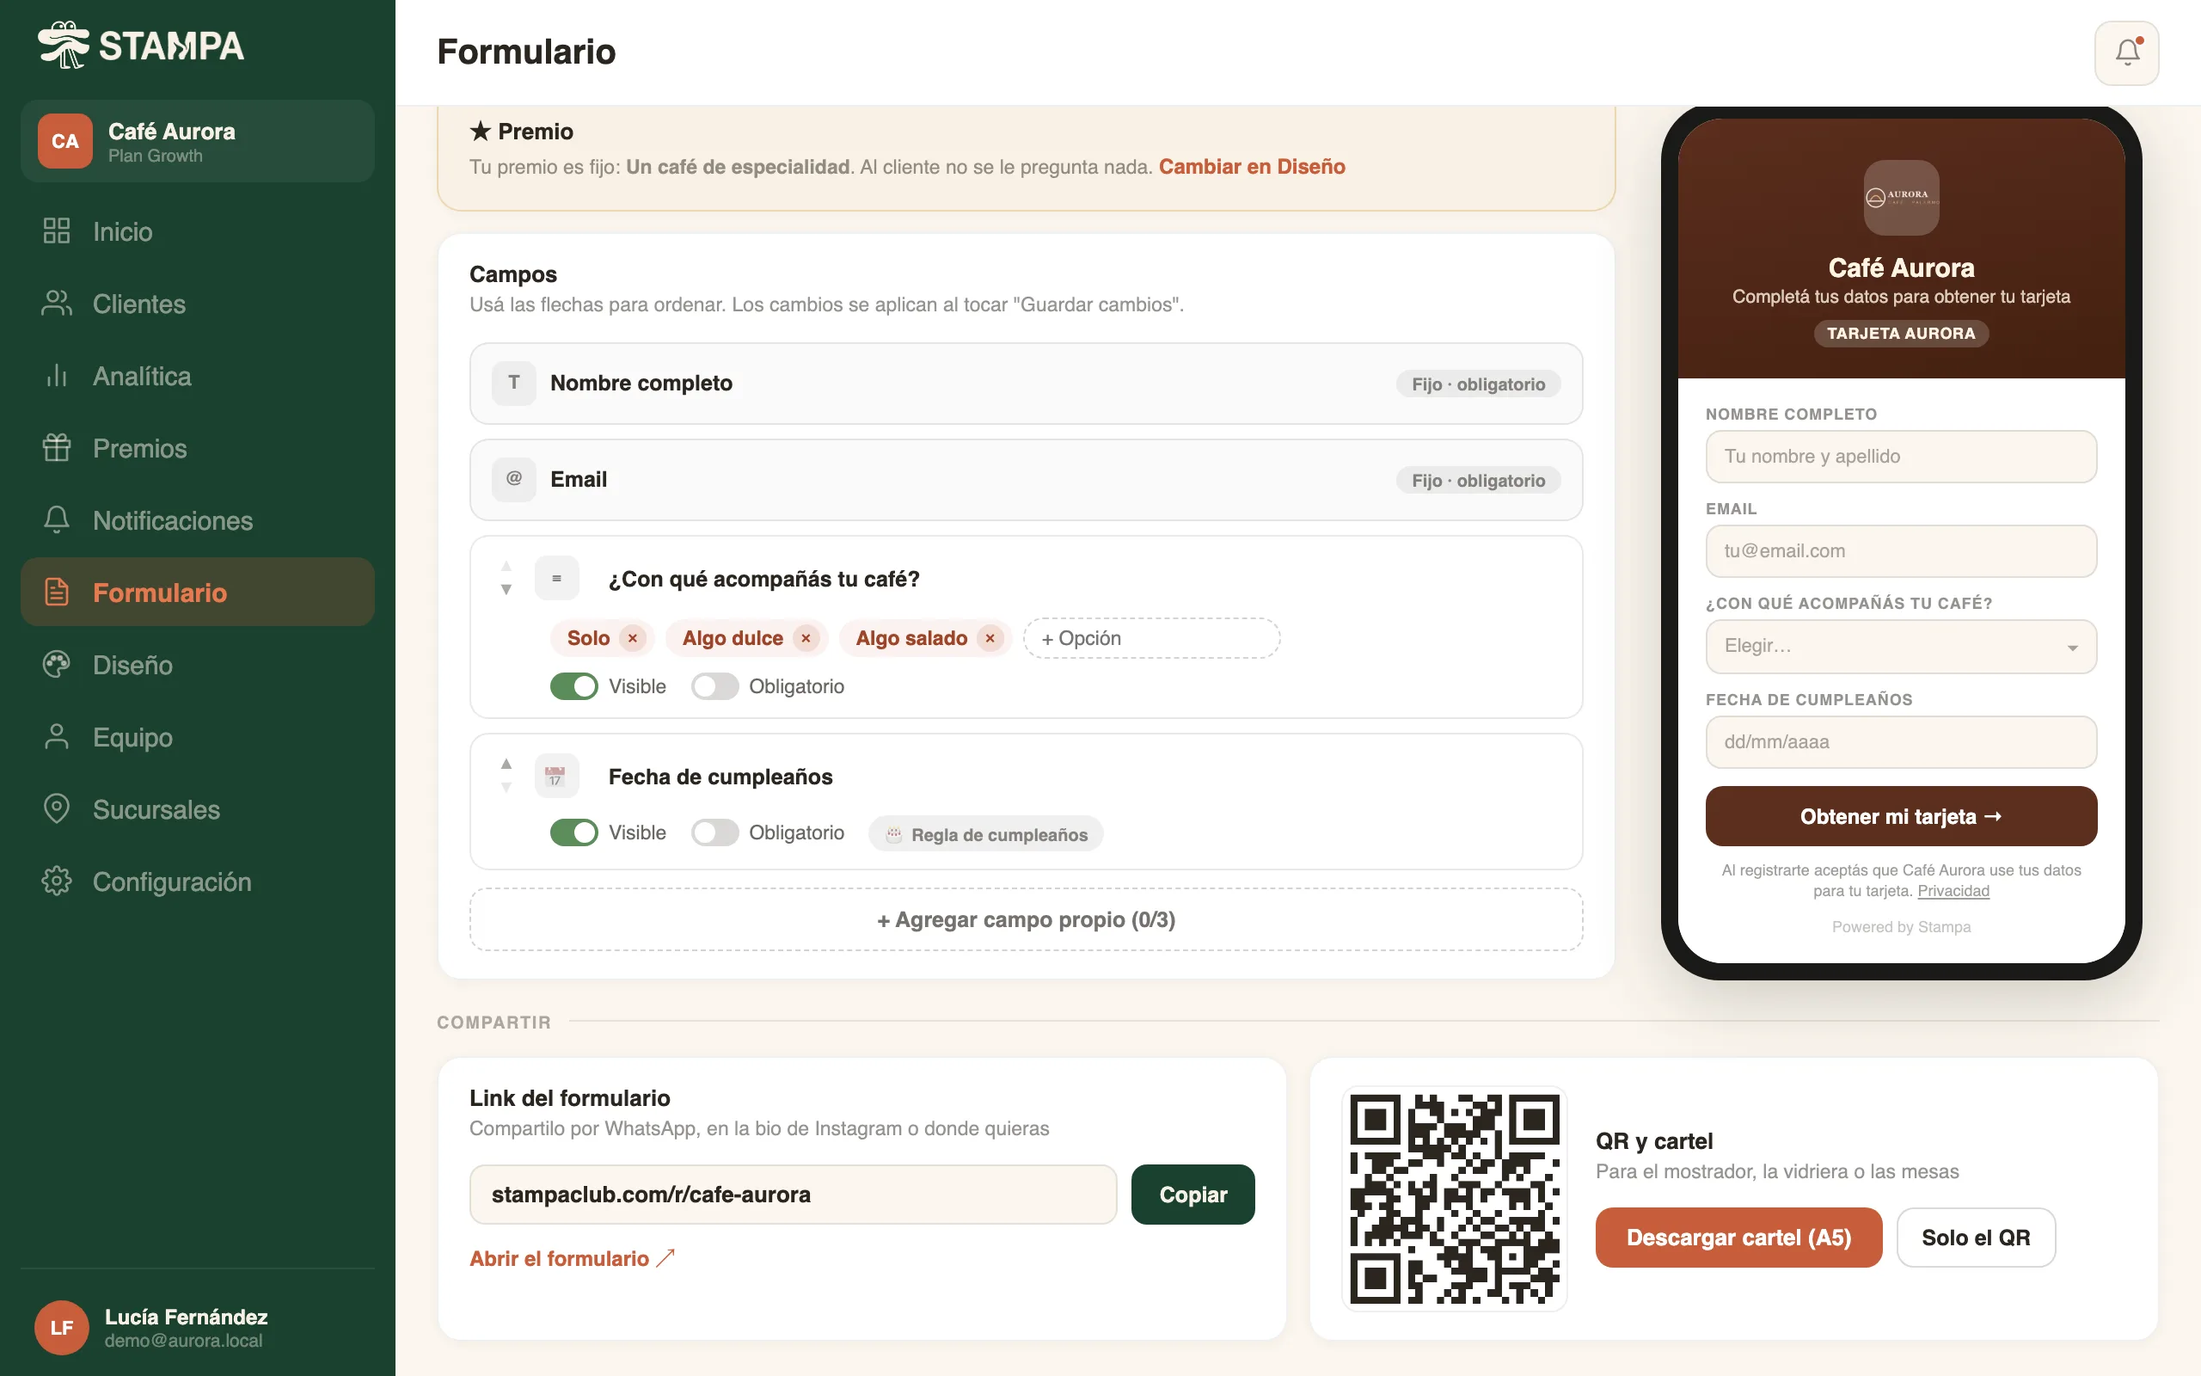
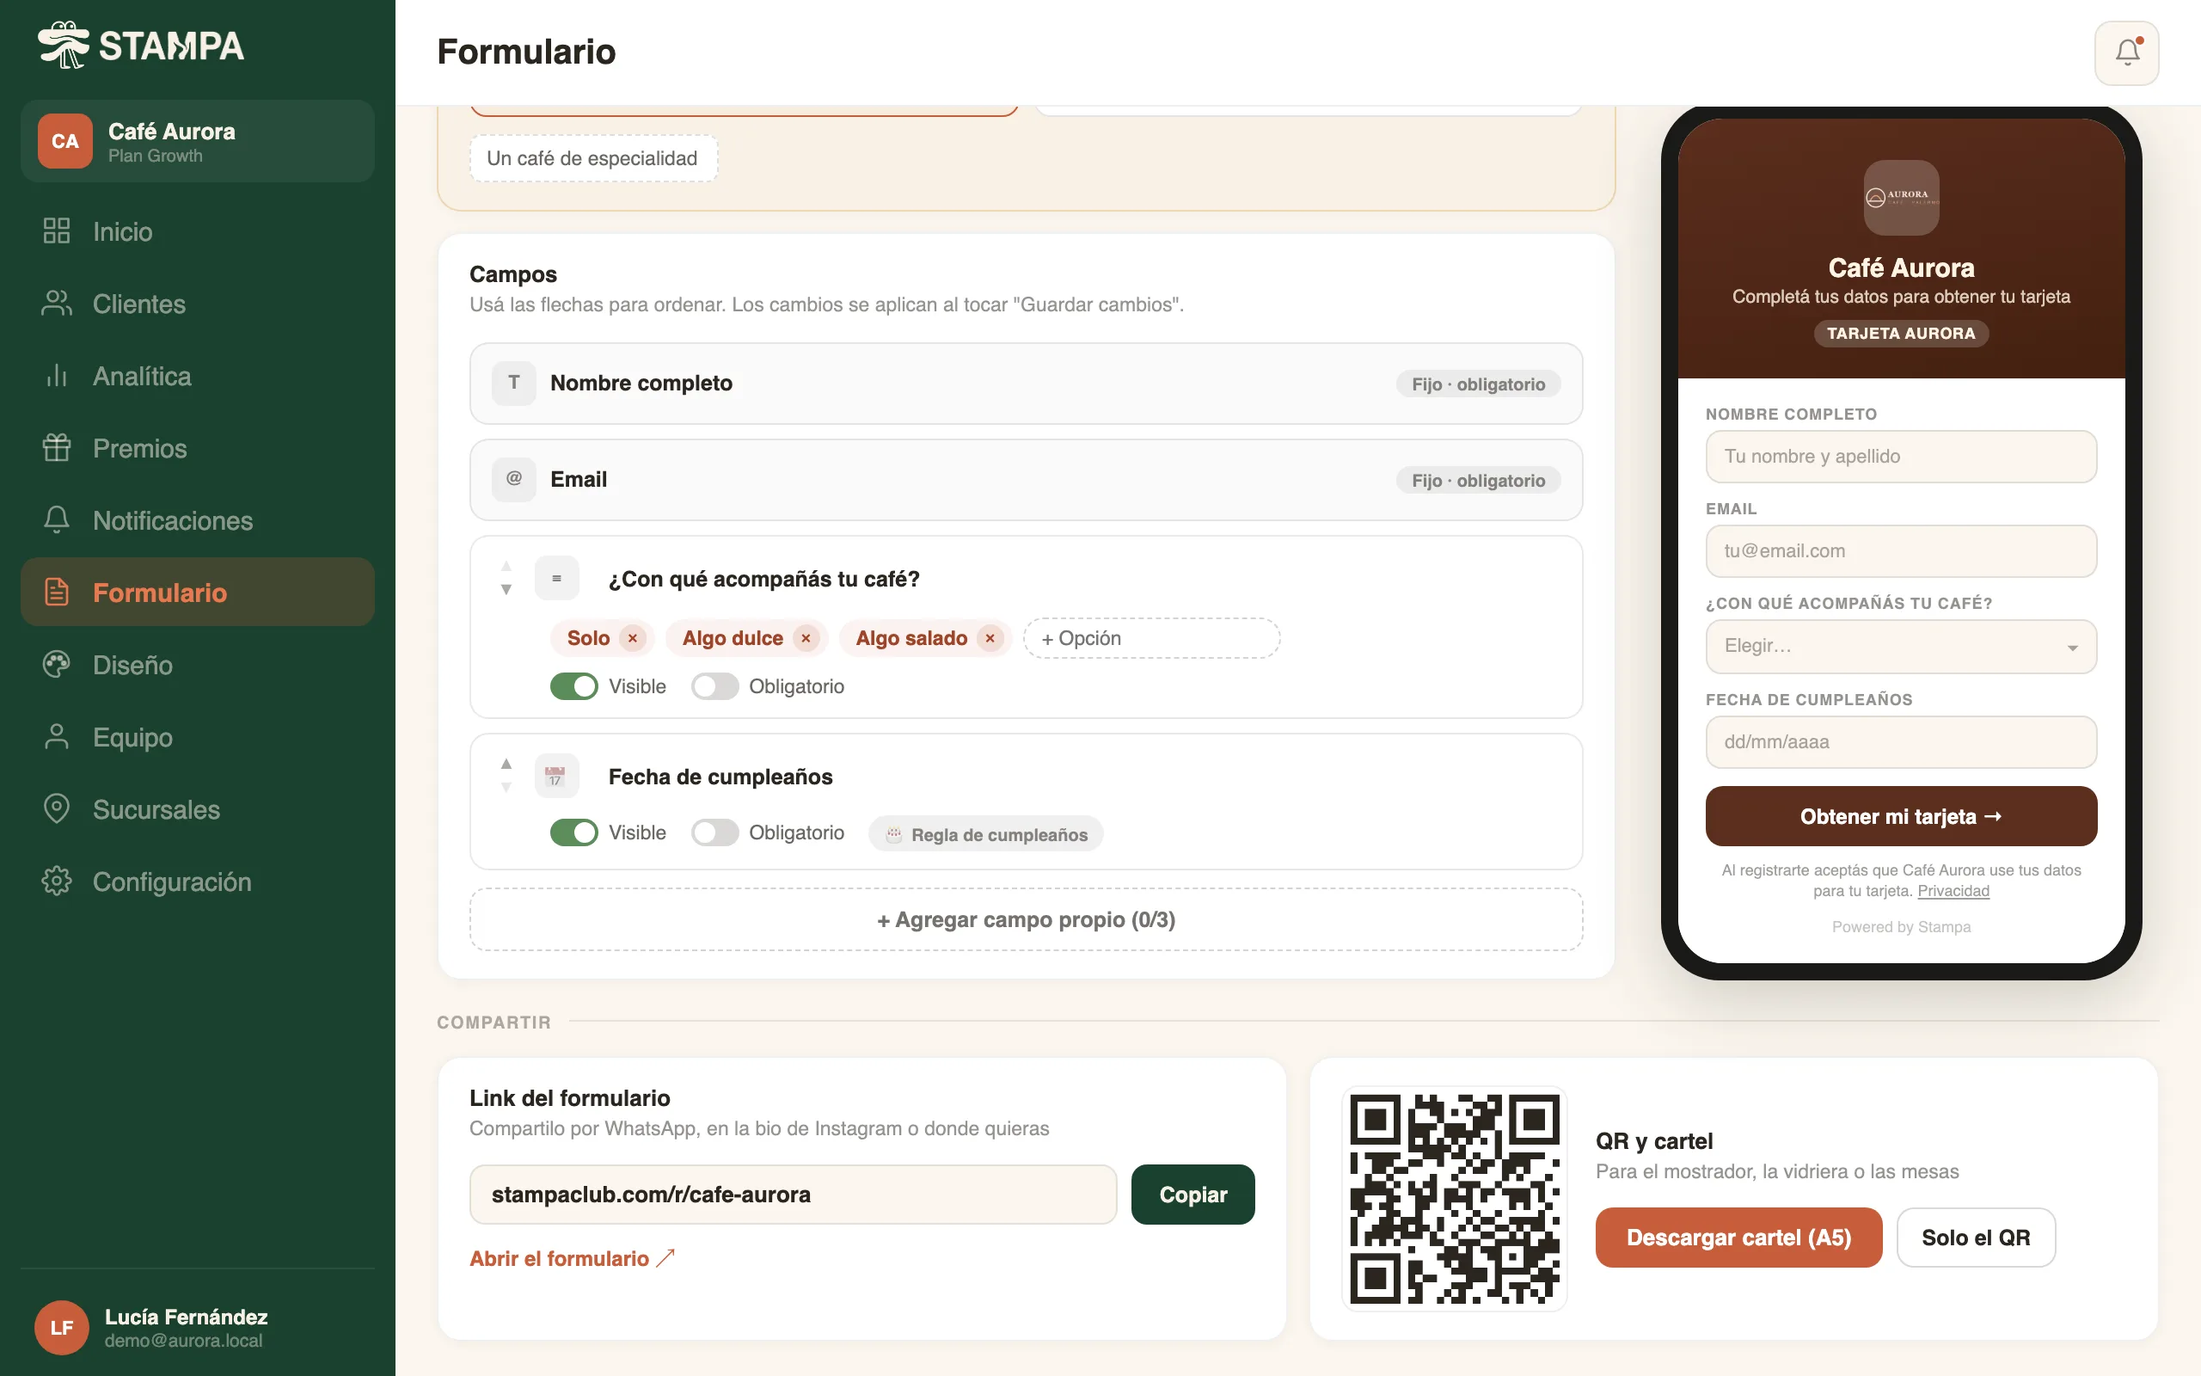
feat(premio): el premio se define solo en Formulario; Diseño muestra un resumen
Diseño ya no edita ni manda el premio (evita pisar lo guardado en
Formulario). Ayuda y capturas actualizadas.

Changed region(s): [[0.4688, 0.0625, 0.7188, 0.125], [0.1875, 0.0938, 0.4375, 0.1562]]

diff --git a/components/dashboard/DesignTab.tsx b/components/dashboard/DesignTab.tsx
@@ -394,7 +394,7 @@ function CardEditor({ card: init, businessId, businessName, onSaved, onBack, onG
   card: CardDesign; businessId?: string | null; businessName?: string | null; onSaved?: () => void; onBack: () => void
   onGoTo?: (tab: 'form' | 'rewards') => void
 }) {
-  const { can, plan, limit } = usePlan()
+  const { can, plan } = usePlan()
   const t = useLang()
   const [card, setCard] = useState<CardDesign>(init)
   // Campos y niveles reales de ESTA tarjeta (antes salían de datos de ejemplo).
@@ -442,24 +442,9 @@ function CardEditor({ card: init, businessId, businessName, onSaved, onBack, onG
   }
 
   const rewardSource = fields.find((f: FormField) => f.isRewardSource)
-  // Opciones de "Lo elige el cliente": se editan acá y se guardan en la
-  // pregunta de premio del formulario.
-  const maxRewardOpts = limit('maxRewardOptions')
-  const [rewardOpts, setRewardOpts] = useState<string[]>([])
-  const [rewardOptsBase, setRewardOptsBase] = useState('[]')
-  const [newOpt, setNewOpt] = useState('')
-  useEffect(() => {
-    const o = rewardSource?.options || []
-    setRewardOpts(o); setRewardOptsBase(JSON.stringify(o))
-  }, [rewardSource?.id]) // eslint-disable-line react-hooks/exhaustive-deps
-  const cleanOpts = rewardOpts.map(o => o.trim()).filter(Boolean)
-  const optsChanged = JSON.stringify(cleanOpts) !== rewardOptsBase
-  function addOpt() {
-    const v = newOpt.trim().slice(0, 40)
-    if (!v || rewardOpts.length >= maxRewardOpts || rewardOpts.some(o => o.toLowerCase() === v.toLowerCase())) return
-    setRewardOpts([...rewardOpts, v]); setNewOpt('')
-  }
-  const rewardSourceLabel = rewardSource ? 'Lo elige cada cliente' : 'Sin configurar'
+  // El premio (fijo o el que elige el cliente) se define en Formulario.
+  // Acá solo se muestra en la vista previa y como resumen.
+  const rewardChoices = (rewardSource?.options || []).filter(Boolean)
 
   // Cambios sin guardar: se compara con lo que había al abrir.
   const snapshot = (c: CardDesign, l: LogoState, fm: string, fs: string, img: string | null, ppv: number) =>
@@ -468,7 +453,7 @@ function CardEditor({ card: init, businessId, businessName, onSaved, onBack, onG
   const [savedStamps, setSavedStamps] = useState(init.stampsRequired)
 
   function setLogo(key: keyof LogoState) { return (url: string | null) => setLogos({ ...logos, [key]: url }) }
-  const dirty = snapshot(card, logos, flipMessage, flipSubMessage, prizeImage, pointsPerVisit) !== baseline || (card.type === 'stamp' && card.rewardMode === 'dynamic' && optsChanged)
+  const dirty = snapshot(card, logos, flipMessage, flipSubMessage, prizeImage, pointsPerVisit) !== baseline
   const textColorBad = !!card.textColor && !isHex(card.textColor)
   const labelColorBad = !!card.labelColor && !isHex(card.labelColor)
   const lowContrast = card.type !== 'membership' && isHex(card.textColor || '#FFFFFF') && isHex(card.color) && contrastRatio(card.textColor || '#FFFFFF', card.color) < 3
@@ -480,8 +465,6 @@ function CardEditor({ card: init, businessId, businessName, onSaved, onBack, onG
     }
     setSaveError(''); setSaveNotice('')
     if (!card.name.trim()) { setSaveError('La tarjeta necesita un nombre.'); return }
-    if (card.type === 'stamp' && card.rewardMode !== 'dynamic' && !(card.rewardField || '').trim()) { setSaveError('Escribí cuál es el premio (ej: Café gratis).'); return }
-    if (card.type === 'stamp' && card.rewardMode === 'dynamic' && (cleanOpts.length < 2 || cleanOpts.length > maxRewardOpts)) { setSaveError(`Cargá entre 2 y ${maxRewardOpts} opciones de premio para que el cliente elija.`); return }
     if (textColorBad || labelColorBad) { setSaveError('Revisá los colores de texto: tienen que ser un código como #FFFFFF.'); return }
     // Bajar los sellos completa la tarjeta de quienes ya los tienen: avisar antes.
     if (!skipImpactCheck && card.type === 'stamp' && card.stampsRequired < savedStamps) {
@@ -502,9 +485,6 @@ function CardEditor({ card: init, businessId, businessName, onSaved, onBack, onG
         isActive: card.isActive,
         stampsRequired: card.stampsRequired,
         pointsPerVisit,
-        ...(card.type === 'stamp' ? { rewardMode: card.rewardMode === 'dynamic' ? 'dynamic' : 'fixed' } : {}),
-        ...(card.type === 'stamp' && card.rewardMode === 'dynamic' && (optsChanged || !rewardSource) ? { rewardOptions: cleanOpts } : {}),
-        rewardFixedValue: card.rewardField || null,
         flipMessage,
         flipSubMessage,
         // null = se quitó (antes mandaba undefined y "Quitar" nunca se guardaba)
@@ -518,10 +498,6 @@ function CardEditor({ card: init, businessId, businessName, onSaved, onBack, onG
       setSaved(true)
       setBaseline(snapshot(card, logos, flipMessage, flipSubMessage, prizeImage, pointsPerVisit))
       setSavedStamps(card.stampsRequired)
-      if (card.type === 'stamp' && card.rewardMode === 'dynamic') {
-        setRewardOpts(cleanOpts); setRewardOptsBase(JSON.stringify(cleanOpts))
-        if (!rewardSource) apiGetFields(businessId, card.id).then(list => setFields(list.map((f: any) => ({ id: f._id, label: f.label, type: f.fieldType, isLocked: f.isLocked, isActive: f.isActive, isRewardSource: f.isRewardSource, order: f.order, options: f.options || [] })))).catch(() => {})
-      }
       setSaveNotice(res?.passUpdates ? `Guardado. Se actualizó la tarjeta en ${res.passUpdates} celular${res.passUpdates === 1 ? '' : 'es'}.` : 'Guardado.')
       onSaved?.()
       setTimeout(() => setSaved(false), 2000)
@@ -538,7 +514,7 @@ function CardEditor({ card: init, businessId, businessName, onSaved, onBack, onG
   // espera para no pedirlas en cada tecla.
   const [walletPreview, setWalletPreview] = useState<WalletPreview | null>(null)
   const [walletPreviewError, setWalletPreviewError] = useState(false)
-  const previewReward = card.rewardMode === 'dynamic' ? (rewardOpts.find(o => o.trim()) || 'Lo elige el cliente') : (card.rewardField || 'Premio')
+  const previewReward = card.rewardMode === 'dynamic' ? (rewardChoices[0] || 'Lo elige el cliente') : (card.rewardField || 'Premio')
   const previewDesign = JSON.stringify({
     name: card.name, color: card.color, secondColor: card.secondColor, textColor: card.textColor,
     stampsRequired: card.stampsRequired, pointsPerVisit, logoUrl: logos.businessLogo, earnedIcon: logos.earnedIcon, emptyIcon: logos.emptyIcon,
@@ -712,48 +688,15 @@ function CardEditor({ card: init, businessId, businessName, onSaved, onBack, onG
           <div className="dt-panel-section-title" style={{ marginTop: 20 }}>Campos del formulario</div>
           <div className="dt-reward-goto-forms">Se editan en <button className="dt-inline-link" onClick={() => onGoTo?.('form')}>Formulario</button>. <InfoTooltip text="El formulario de registro usa el color y el logo de esta tarjeta." /></div>
 
-          {/* STAMP: prize mode */}
+          {/* STAMP: el premio se define en Formulario (un solo lugar). */}
           {card.type === 'stamp' && (
             <>
-              <div className="dt-panel-section-title" style={{ marginTop: 20 }}>¿Cómo se define el premio?</div>
-              <div className="dt-reward-mode-box">
-                <div className={`dt-reward-opt${card.rewardMode === 'dynamic' ? ' dt-reward-opt--on' : ''}`} onClick={() => setCard({ ...card, rewardMode: 'dynamic' })}>
-                  <div className="dt-reward-radio">{card.rewardMode === 'dynamic' && <div className="dt-reward-radio-dot" />}</div>
-                  <div><div className="dt-reward-opt-title">Lo elige el cliente</div><div className="dt-reward-opt-desc">Su respuesta en el formulario se convierte en el premio</div></div>
-                </div>
-                {card.rewardMode === 'dynamic' && (
-                  <div className="dt-field-picker">
-                    <div className="dt-appearance-label">
-                      Opciones de premio ({cleanOpts.length}/{maxRewardOpts})
-                      <InfoTooltip text="El cliente elige una al registrarse y esa queda como su premio. Se muestran como pregunta obligatoria en el formulario." />
-                    </div>
-                    <div className="dt-opts">
-                      {rewardOpts.map((o, i) => (
-                        <span key={i} className="dt-opt">
-                          <input value={o} maxLength={40} onChange={e => setRewardOpts(rewardOpts.map((x, j) => j === i ? e.target.value : x))} aria-label={`Opción ${i + 1}`} style={{ width: `${Math.max(4, o.length) + 1}ch` }} />
-                          <button type="button" onClick={() => setRewardOpts(rewardOpts.filter((_, j) => j !== i))} aria-label="Quitar opción">×</button>
-                        </span>
-                      ))}
-                      {rewardOpts.length < maxRewardOpts && (
-                        <span className="dt-opt dt-opt--new">
-                          <input value={newOpt} maxLength={40} placeholder="+ Agregar (ej: Café gratis)" onChange={e => setNewOpt(e.target.value)} onKeyDown={e => { if (e.key === 'Enter') { e.preventDefault(); addOpt() } }} onBlur={addOpt} aria-label="Nueva opción" />
-                        </span>
-                      )}
-                    </div>
-                    {cleanOpts.length < 2
-                      ? <div className="dt-color-warn">Cargá al menos 2 opciones.</div>
-                      : rewardOpts.length >= maxRewardOpts
-                        ? <div className="dt-public-desc-note">Llegaste a las {maxRewardOpts} opciones de tu plan.{plan === 'Starter' ? ' Growth permite 6 y Pro 12.' : plan === 'Growth' ? ' Pro permite 12.' : ''}</div>
-                        : <div className="dt-public-desc-note">Elegí premios de valor parecido: si uno vale mucho más, todos van a elegir ese.</div>}
-                  </div>
-                )}
-                <div className={`dt-reward-opt${card.rewardMode !== 'dynamic' ? ' dt-reward-opt--on' : ''}`} onClick={() => setCard({ ...card, rewardMode: 'fixed' })}>
-                  <div className="dt-reward-radio">{card.rewardMode !== 'dynamic' && <div className="dt-reward-radio-dot" />}</div>
-                  <div><div className="dt-reward-opt-title">Yo lo defino</div><div className="dt-reward-opt-desc">El mismo premio para todos los clientes</div></div>
-                </div>
-                {card.rewardMode !== 'dynamic' && (
-                  <input className="dt-prize-input" placeholder="Ej: Café gratis" maxLength={40} value={card.rewardField || ''} onChange={e => setCard({ ...card, rewardField: e.target.value })} />
-                )}
+              <div className="dt-panel-section-title" style={{ marginTop: 20 }}>Premio</div>
+              <div className="dt-reward-goto-forms">
+                {card.rewardMode === 'dynamic'
+                  ? <>Lo elige el cliente{rewardChoices.length ? <>: <strong>{rewardChoices.join(' · ')}</strong></> : ' (todavía sin opciones)'}.</>
+                  : card.rewardField ? <><strong>{card.rewardField}</strong>, el mismo para todos.</> : 'Todavía no definiste el premio.'}
+                {' '}Se define en <button className="dt-inline-link" onClick={() => onGoTo?.('form')}>Formulario</button>.
               </div>
             </>
           )}

diff --git a/data/ayuda.tsx b/data/ayuda.tsx
@@ -34,7 +34,7 @@ export const ARTICLES: Article[] = [
     body: <>
       <p>Desde que creás la cuenta hasta que el primer cliente tiene la tarjeta en el celular hay cinco pasos. Ninguno lleva más de un rato, y el panel te los marca en Inicio a medida que los completás.</p>
       <Steps items={[
-        <><strong>Diseñá la tarjeta.</strong> Subí tu logo, elegí los colores, cuántos sellos y el premio. En la vista previa ves cómo queda en un iPhone y en un Android. <A to="disenar-la-tarjeta">Cómo diseñarla</A>.</>,
+        <><strong>Diseñá la tarjeta.</strong> En Diseño subí tu logo y elegí los colores y cuántos sellos. En la vista previa ves cómo queda en un iPhone y en un Android. El premio se define en Formulario. <A to="disenar-la-tarjeta">Cómo diseñarla</A> y <A to="premios">cómo elegir el premio</A>.</>,
         <><strong>Poné el QR en el mostrador.</strong> En Formulario descargás un cartel listo para imprimir. El cliente lo escanea con la cámara, deja su nombre y su email y guarda la tarjeta. <A to="qr-del-mostrador">Dónde ponerlo</A>.</>,
         <><strong>Sumá a tu equipo.</strong> Cada empleado tiene un PIN de 4 números para la app de escaneo. <A to="equipo">Cómo sumarlos</A>.</>,
         <><strong>Vinculá el celular del local.</strong> Instalás la app de escaneo y escaneás el código que te muestra el panel. Se hace una vez por celular. <A to="app-de-escaneo">Paso a paso</A>.</>,
@@ -79,10 +79,10 @@ export const ARTICLES: Article[] = [
     body: <>
       <p>Hay tres tipos de tarjeta. El tipo se elige al crearla.</p>
       <h2>Sellos</h2>
-      <p>Una visita, un sello. Al completar la tarjeta, el premio. En Diseño, en "¿Cómo se define el premio?", tenés dos opciones:</p>
+      <p>Una visita, un sello. Al completar la tarjeta, el premio. En <strong>Formulario</strong>, en la caja "Premio", tenés dos opciones:</p>
       <ul>
         <li><strong>Yo lo defino:</strong> el mismo premio para todos, por ejemplo "Un café de especialidad".</li>
-        <li><strong>Lo elige el cliente:</strong> le das opciones en el formulario ("Café", "Medialuna", "Tostado") y lo que elige pasa a ser su premio.</li>
+        <li><strong>Lo elige el cliente:</strong> cargás las opciones ("Café", "Medialuna", "Tostado") y el cliente elige una al registrarse; esa pasa a ser su premio. Starter permite 3 opciones, Growth 6 y Pro 12.</li>
       </ul>
       <p>La tarjeta queda completa hasta que el empleado entrega el premio y toca "Confirmar entrega" en la app. Ahí vuelve a cero.</p>
       <h2>Puntos</h2>
@@ -98,7 +98,7 @@ export const ARTICLES: Article[] = [
     title: 'El formulario de registro',
     summary: 'Qué completa el cliente para llevarse la tarjeta y cómo agregar tus propias preguntas.',
     body: <>
-      <p>El formulario es lo que ve el cliente cuando escanea tu QR. Tiene los colores y el logo de tu tarjeta. Siempre pide nombre y email; el resto lo decidís vos en <strong>Formulario</strong>.</p>
+      <p>El formulario es lo que ve el cliente cuando escanea tu QR. Tiene los colores y el logo de tu tarjeta. Siempre pide nombre y email; el resto lo decidís vos en <strong>Formulario</strong>. Ahí también está la caja "Premio", donde definís qué recibe el cliente al completar la tarjeta (<A to="premios">ver cómo</A>).</p>
       <Shot src="formulario" alt="Pestaña Formulario con los campos y la vista previa del celular" />
       <ul>
         <li><strong>Pregunta del rubro.</strong> Según tu rubro viene una pregunta armada, por ejemplo "¿Con qué acompañás tu café?". Podés cambiar las opciones, ocultarla o hacerla obligatoria.</li>

diff --git a/components/dashboard/FormTab.tsx b/components/dashboard/FormTab.tsx
@@ -459,7 +459,7 @@ export function FormTab({ businessName, businessSlug, cards, businessId, onGoToD
                   </label>
                 </div>
                 {rMode === 'fixed' ? (
-                  <input className="fm-ph-input" style={{ marginLeft: 0 }} value={rFixed} maxLength={60} placeholder="Ej: Café gratis" onChange={e => { setRFixed(e.target.value); setNotice(null) }} />
+                  <input className="fm-ph-input" style={{ marginLeft: 0, width: '100%', boxSizing: 'border-box' }} value={rFixed} maxLength={60} placeholder="Ej: Café gratis" onChange={e => { setRFixed(e.target.value); setNotice(null) }} />
                 ) : (
                   <>
                     <div className="fm-rlabel">Opciones ({rClean.length}/{maxRewardOpts})</div>
